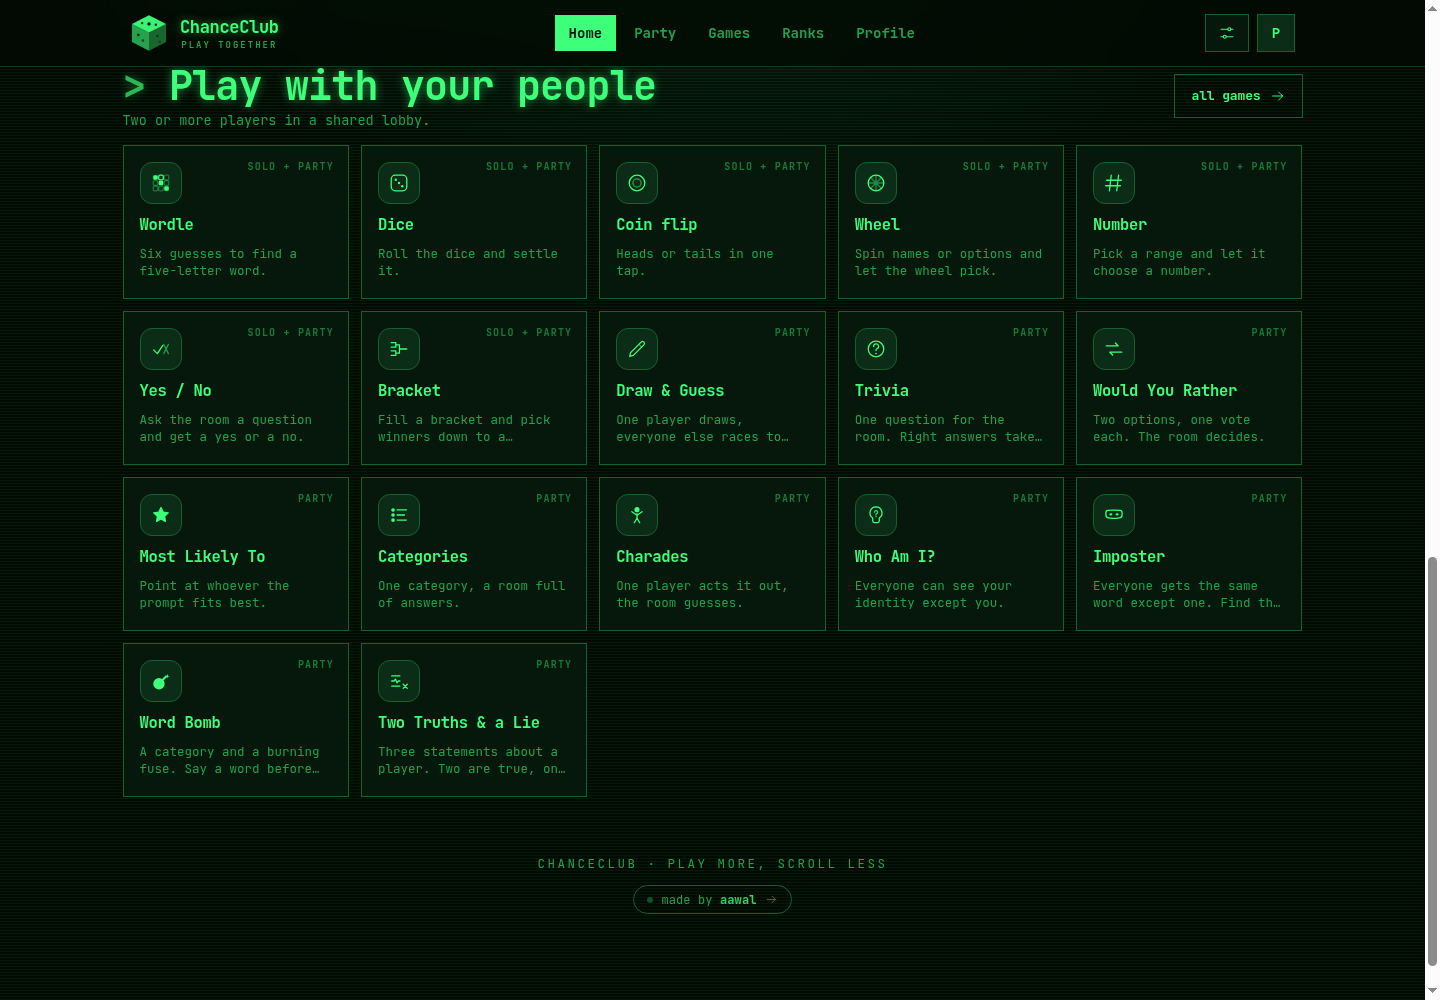
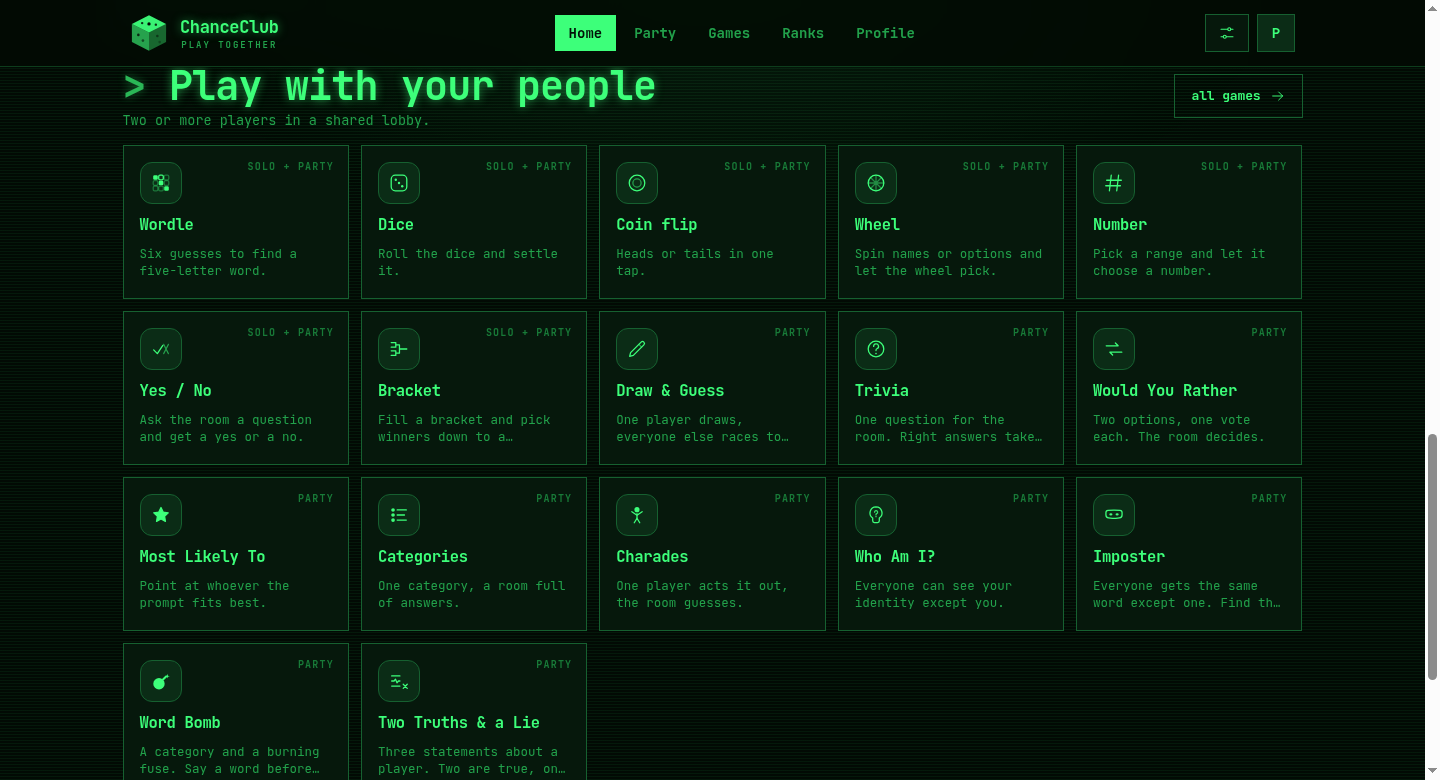
Projects: full-width product shot under the ChanceClub copy

diff --git a/css/style.css b/css/style.css
@@ -621,8 +621,7 @@ a { color: inherit; text-decoration: none; }
 
 /* ---------- projects ---------- */
 .proj-feature {
-  display: grid;
-  grid-template-columns: 1.05fr 0.95fr;
+  display: block;
   background: var(--ink-2);
   border: 1px solid var(--line);
   border-radius: 24px;
@@ -652,7 +651,8 @@ a { color: inherit; text-decoration: none; }
   display: block;
   position: relative;
   overflow: hidden;
-  border-left: 1px solid var(--line);
+  border-top: 1px solid var(--line);
+  aspect-ratio: 1.9;
   background:
     radial-gradient(120% 90% at 80% 10%, rgba(47,217,127,0.12), transparent 60%),
     var(--ink);
@@ -691,9 +691,8 @@ a { color: inherit; text-decoration: none; }
 .proj-card p { color: var(--muted); font-size: 15px; flex: 1; }
 .proj-card .proj-links { padding-top: 22px; }
 @media (max-width: 860px) {
-  .proj-feature { grid-template-columns: 1fr; }
   .proj-feature-copy { padding: 26px; }
-  .proj-shot { border-left: 0; border-top: 1px solid var(--line); aspect-ratio: 16 / 11; }
+  .proj-shot { aspect-ratio: 1.45; }
 }
 
 /* ---------- Ausbildung ---------- */
